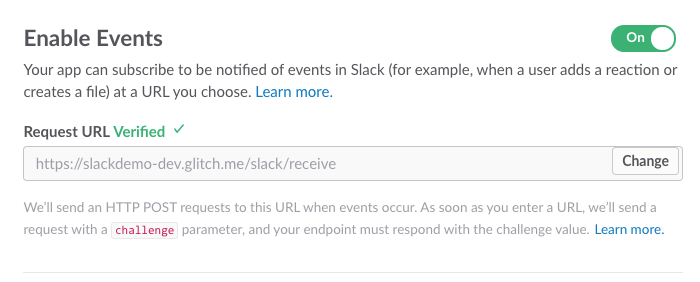
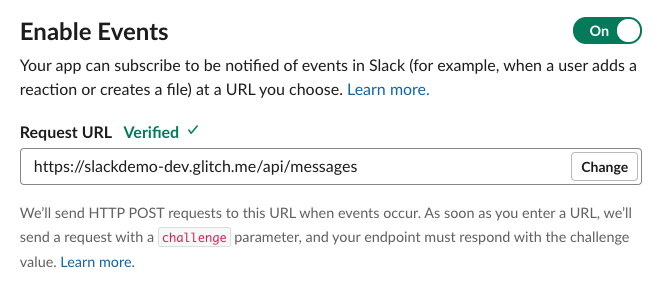
change URL to v4.x endpoint.

diff --git a/docs/provisioning/slack-events-api.md b/docs/provisioning/slack-events-api.md
@@ -28,7 +28,7 @@ Botkit and Slack use the OAuth authentication system to grant bots access to con
 
 ![A screenshot of the "Setup Oauth" tab on Slack's portal](IMG/slack_oauth.png)
 
-Click on the "OAuth & Permissions" tab in your Slack's app setting, and under Redirect URLs, add: `https://my-bot-url/oauth`, and save your progress.
+Click on the "OAuth & Permissions" tab in your Slack's app setting, and under Redirect URLs, add: `https://my-bot-url/install/auth`, and save your progress.
 
 ## 4. Add a Bot User
 
@@ -40,7 +40,7 @@ In addition to a name, enable the option for "Always Show My Bot Online." This w
 
 ## 5. Set up Interactive Components
 
-"Interactive Components" is Slack's fancy way of saying "buttons, or dialogs, or menus." In order to enable these, under Request URL, add `https://YOURURL/slack/receive`, then click save.
+"Interactive Components" is Slack's fancy way of saying "buttons, or dialogs, or menus." In order to enable these, under Request URL, add `https://YOURURL/api/messages`, then click save.
 
 ![A screeshot showing how to setup interactive components](IMG/slack-im.png)
 
@@ -48,7 +48,7 @@ In addition to a name, enable the option for "Always Show My Bot Online." This w
 
 To start receiving messages, you will need to enable Event Subscriptions. Finally, scroll to the top of the page and switch "Enable Events" to "on". 
 
-Next you will need to add your Request URL, like this: `https://YOURURL/slack/receive`. When you finish typing, Slack will verify that this endpoint is properly configured. You must be running your Botkit application at the URL specified for this to work.
+Next you will need to add your Request URL, like this: `https://YOURURL/api/messages`. When you finish typing, Slack will verify that this endpoint is properly configured. You must be running your Botkit application at the URL specified for this to work.
 
 ![A screenshot showing how to set up webhook endpoints](IMG/Slack-eventsenable.png)
 

diff --git a/docs/readme-slack.md b/docs/readme-slack.md
@@ -18,15 +18,17 @@ Table of Contents
 
 ## Getting Started
 
-1. [Install Botkit on your computer](/getstarted.html)
+1. [Install Botkit on your computer](https://botkit.ai/getstarted.html)
 
 2. Create a Botkit powered Node app:
   * [Remix the starter project on Glitch](https://glitch.com/~botkit-slack)
   * Or: Use the command line tool:
 
-  ```
-  botkit new --platform slack
-  ```
+      ```
+      mkdir mybot
+      cd mybot
+      yo botkit
+      ```
 
 3. [Follow this guide to configuring the Slack API](/docs/provisioning/slack-events-api.md)
 
